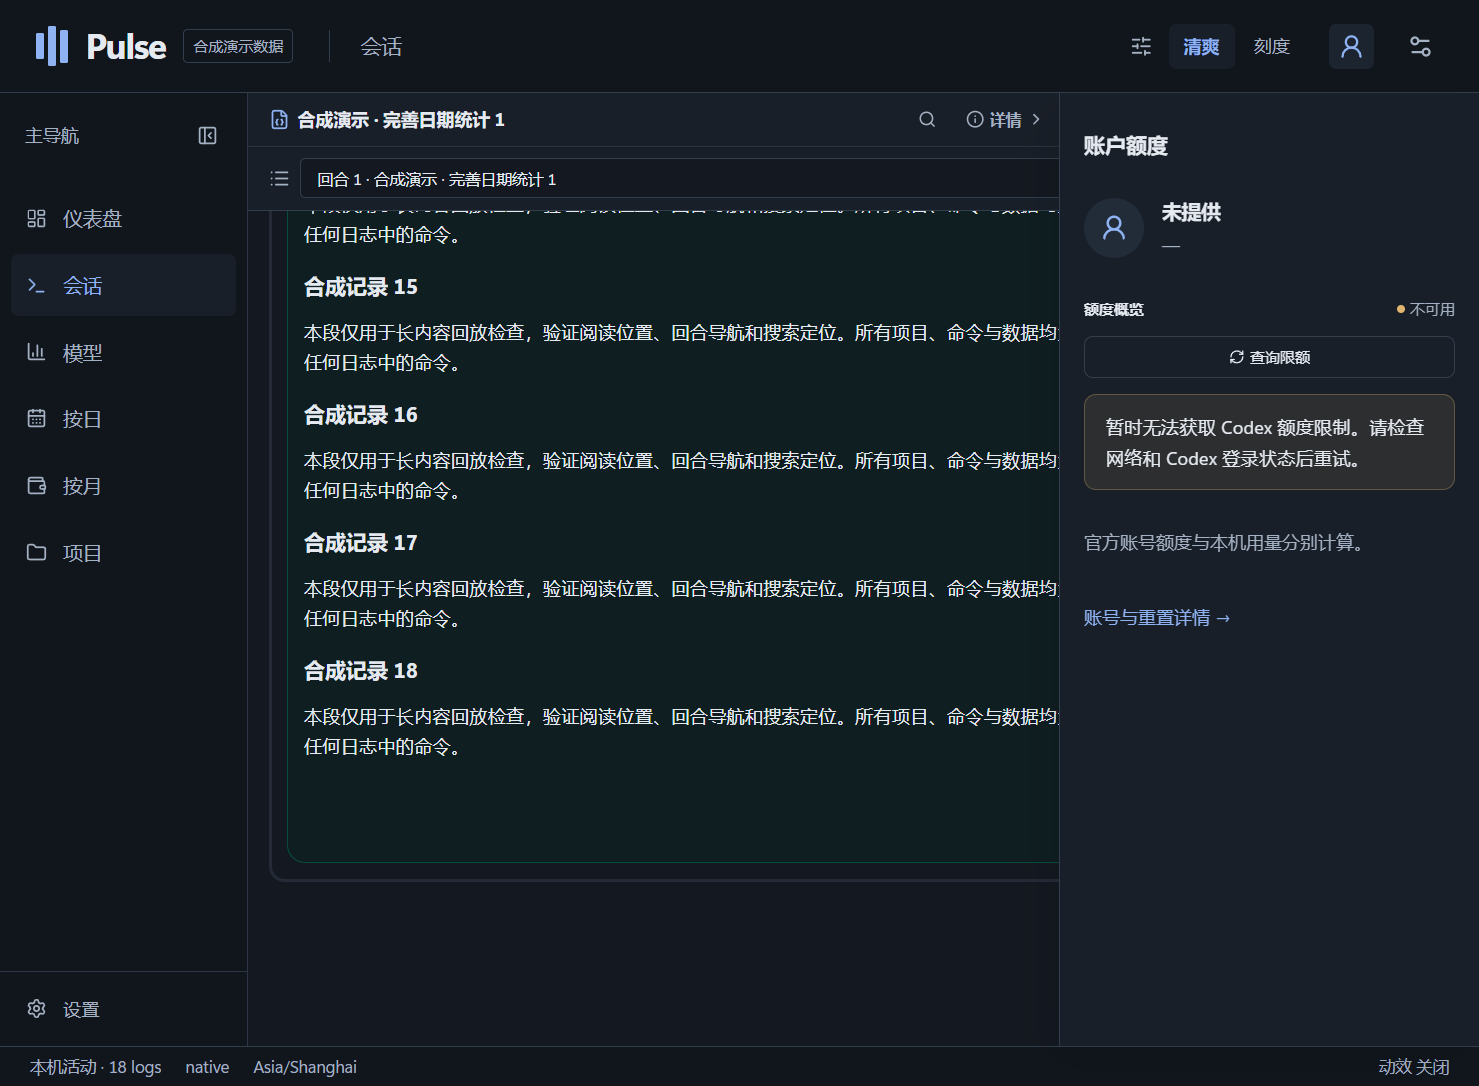
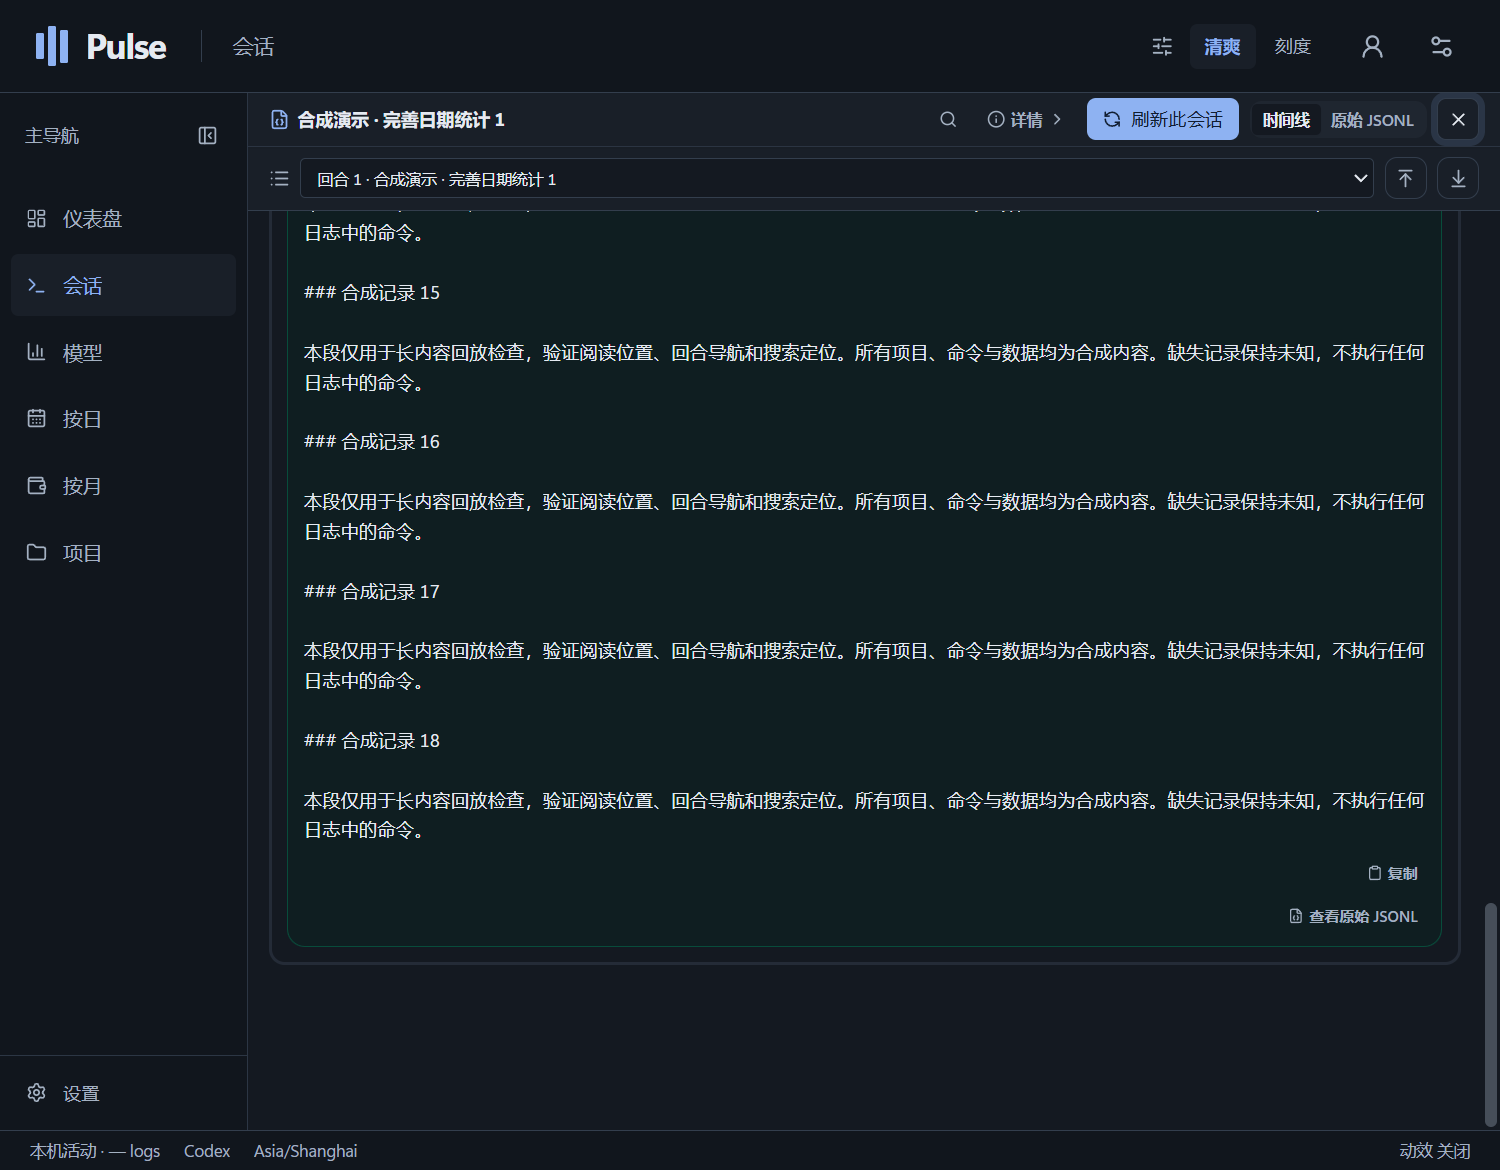
test: verify narrow replay controls remain reachable

diff --git a/e2e/pulse.spec.ts b/e2e/pulse.spec.ts
@@ -100,6 +100,8 @@ describe('Pulse native parity', () => {
 
   it('remains operable at a narrow window and in dark compact mode', async () => {
     await browser.setWindowSize(1000, 780);
+    const accountToggle = $('.pulse-global-actions > button[aria-pressed]');
+    if (await accountToggle.getAttribute('aria-pressed') === 'true') await accountToggle.click();
     for (const skinId of ['clear', 'meter']) {
       await invoke('set_pulse_preferences', { patch: { skinId, theme: 'dark', compactMode: true, motionLevel: 'off' } });
       await $('[data-testid="daily-nav-tab"]').click();
@@ -108,6 +110,12 @@ describe('Pulse native parity', () => {
       await $('[data-testid="sessions-nav-tab"]').click();
       await $('[data-testid="session-card"]').click();
       await $('#session-compact-navigation').waitForDisplayed();
+      expect(await browser.execute(() => {
+        const button = document.querySelector('#session-compact-navigation button:last-child')!;
+        const box = button.getBoundingClientRect();
+        const hit = document.elementFromPoint(box.x + box.width / 2, box.y + box.height / 2);
+        return hit === button || button.contains(hit);
+      })).toBe(true);
       const turnCount = await browser.execute(() => document.querySelectorAll('#session-turn-selector option').length);
       expect(turnCount).toBeGreaterThan(0);
       await $('#session-turn-selector').selectByIndex(turnCount - 1);
